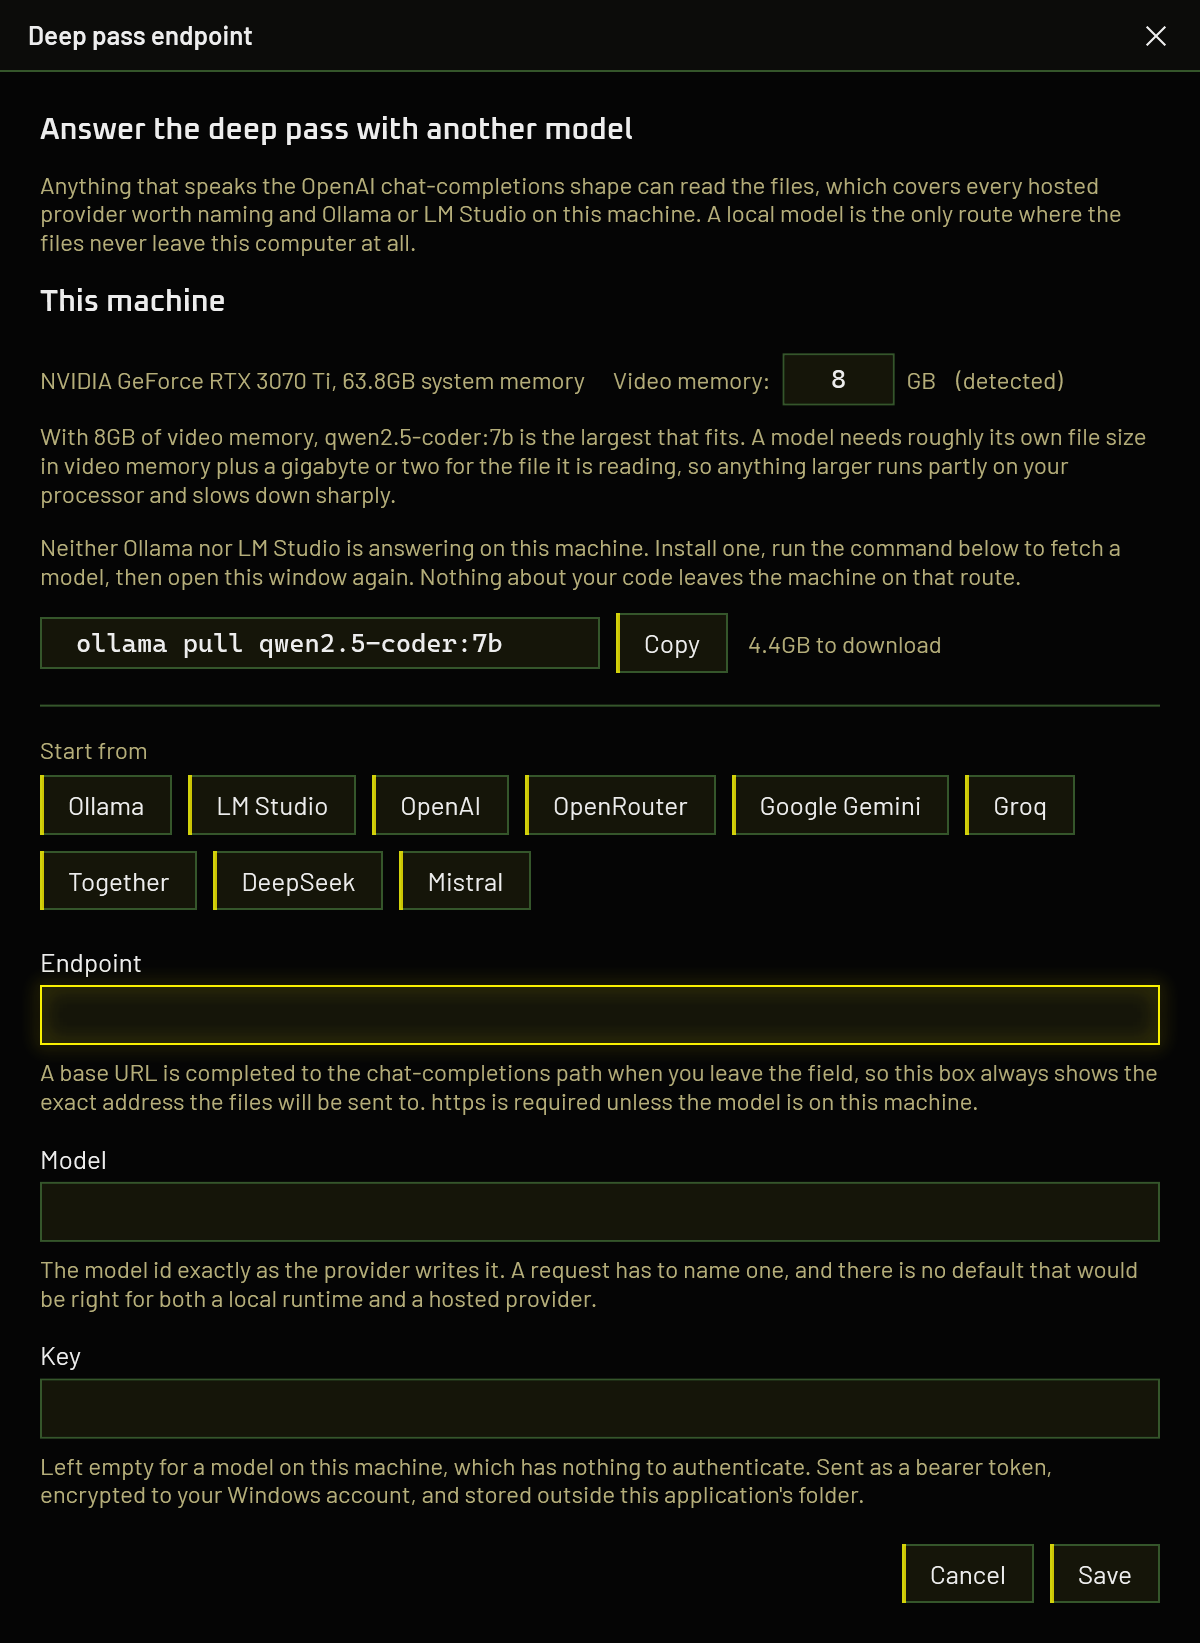
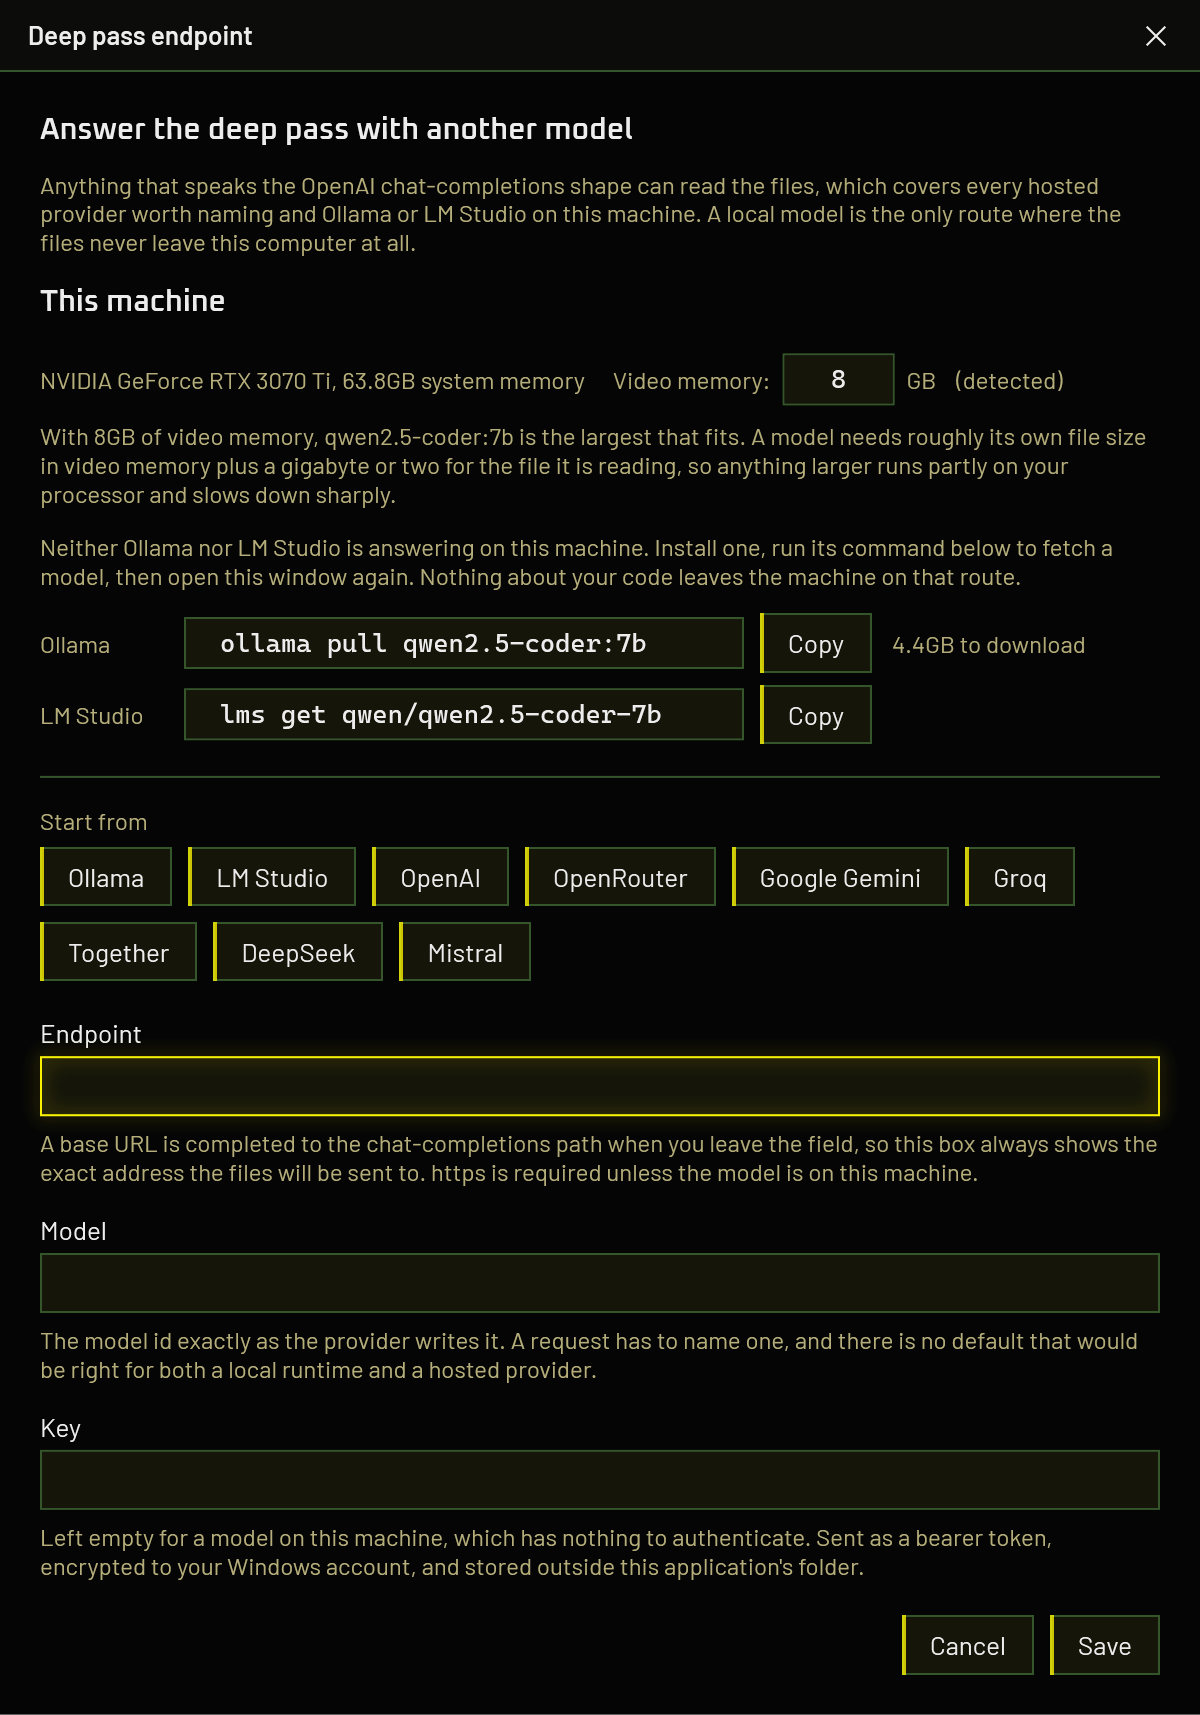
Give each local runtime its own model command
Ollama and LM Studio spell the same model differently and neither accepts the other's, so the single hardcoded `ollama pull` was wrong for anyone not running Ollama, including on the screen that had just named LM Studio as the one answering.

- LocalModelChoice carries both identifiers, and PullCommandFor picks by runtime
- the context caution is chosen the same way: LM Studio sets context per model as it loads and never reads OLLAMA_CONTEXT_LENGTH
- a command per detected runtime, labelled when there is more than one, and both when neither is running and the choice has not been made yet

All three LM Studio identifiers were checked against the live catalogue rather than inferred from the pattern.

diff --git a/docs/setup.html b/docs/setup.html
@@ -241,7 +241,7 @@
       </p>
       <figure>
         <div class="shot" style="--natural:600px">
-          <img src="assets/img/screen-endpoint.png" alt="The VibeCheck endpoint configuration window. It names the detected graphics card and system memory, offers an editable video memory figure, recommends the largest model that fits with the exact ollama pull command and its download size, then lists nine provider presets above the endpoint, model and key fields." width="1200" height="1643" loading="lazy">
+          <img src="assets/img/screen-endpoint.png" alt="The VibeCheck endpoint configuration window. It names the detected graphics card and system memory, offers an editable video memory figure, and recommends the largest model that fits, giving the fetch command for both Ollama and LM Studio with the download size. Below that are nine provider presets and the endpoint, model and key fields." width="1200" height="1715" loading="lazy">
         </div>
         <figcaption class="shot__caption">The endpoint window, sizing a model against the card it found.</figcaption>
       </figure>
@@ -336,6 +336,22 @@
           </tbody>
         </table>
       </div>
+      <div class="callout">
+        <span class="callout__title">The two runtimes spell the same model differently</span>
+        <p>
+          Ollama writes <code>qwen2.5-coder:7b</code> and LM Studio writes
+          <code>qwen/qwen2.5-coder-7b</code>, and neither accepts the other's spelling. VibeCheck
+          gives you the command for whichever runtime is answering, and both when neither is, so
+          you should not have to translate between them.
+        </p>
+        <p>
+          It matters in the <strong>Model</strong> field too: paste an Ollama tag into a
+          configuration pointing at LM Studio and the request fails on a model that does not
+          exist. Picking a detected model from the list avoids the question entirely, because
+          that fills in the endpoint and the identifier together.
+        </p>
+      </div>
+
       <div class="callout callout--warn">
         <span class="callout__title">Below 6.5 GB, VibeCheck recommends nothing</span>
         <p>
@@ -412,7 +428,11 @@
           <em>"no valid installation could be found"</em> even though the application is plainly
           installed.
         </li>
-        <li>Download a model through its interface. For an 8 GB card, a 7B coder model.</li>
+        <li>
+          Download a model. For an 8 GB card, a 7B coder model. Either through its interface, or
+          with the command VibeCheck gives you:
+          <pre><code>lms get qwen/qwen2.5-coder-7b</code></pre>
+        </li>
         <li>Open the <strong>Developer</strong> tab and start the local server. It listens on <code>localhost:1234</code>.</li>
         <li>Copy the model id exactly as LM Studio lists it. It is usually longer than an Ollama tag and is not interchangeable with one.</li>
         <li>In the endpoint window, press the <strong>LM Studio</strong> preset, paste the model id, leave the key empty, and save.</li>

diff --git a/VibeCheck.App/EndpointWindow.xaml b/VibeCheck.App/EndpointWindow.xaml
@@ -97,6 +97,8 @@
                  exact line to run rather than as a description of it. -->
             <StackPanel x:Name="PullRow" Orientation="Horizontal" Margin="0,4,0,0"
                         Visibility="Collapsed">
+                <TextBlock x:Name="PullLabel" Style="{StaticResource Caption}" Width="72"
+                           VerticalAlignment="Center" Visibility="Collapsed"/>
                 <TextBox x:Name="PullCommand" IsReadOnly="True" Height="26" Width="280"/>
                 <Button Content="Copy" Style="{StaticResource Btn}" Margin="8,0,0,0"
                         Click="OnCopyPull"/>
@@ -106,6 +108,19 @@
                      text would travel with it and stop being a runnable command. -->
                 <TextBlock x:Name="PullSize" Style="{StaticResource Caption}"
                            VerticalAlignment="Center" Margin="10,0,0,0"/>
+            </StackPanel>
+
+            <!-- A second command, shown only when neither runtime is running and the reader has
+                 therefore not yet chosen which to install. Two commands rather than a guess:
+                 whichever one they pick, the line above or below it is the one that works. Each
+                 keeps its own box so a copy stays a runnable command. -->
+            <StackPanel x:Name="PullRowAlt" Orientation="Horizontal" Margin="0,6,0,0"
+                        Visibility="Collapsed">
+                <TextBlock x:Name="PullLabelAlt" Style="{StaticResource Caption}" Width="72"
+                           VerticalAlignment="Center"/>
+                <TextBox x:Name="PullCommandAlt" IsReadOnly="True" Height="26" Width="280"/>
+                <Button Content="Copy" Style="{StaticResource Btn}" Margin="8,0,0,0"
+                        Click="OnCopyPullAlt"/>
             </StackPanel>
 
             <TextBlock x:Name="ContextCaution" Style="{StaticResource Caption}" TextWrapping="Wrap"

diff --git a/VibeCheck.Core/DeepPass/LocalModelGuide.cs b/VibeCheck.Core/DeepPass/LocalModelGuide.cs
@@ -17,20 +17,41 @@ public enum ModelFit
 }
 
 /// <summary>One model worth suggesting, and the machine it suits.</summary>
-/// <param name="Tag">The tag to pull and to name in a request.</param>
+/// <param name="Tag">Ollama's tag for it, which is also what a request to Ollama must name.</param>
+/// <param name="LmStudioTag">
+/// The same model as LM Studio's catalogue names it. <b>The two are not interchangeable</b>:
+/// Ollama writes <c>qwen2.5-coder:7b</c> and LM Studio writes <c>qwen/qwen2.5-coder-7b</c>, and
+/// each runtime rejects the other's spelling. All three were checked against the live catalogues
+/// rather than inferred from the pattern.
+/// </param>
 /// <param name="Label">How it is described in a sentence.</param>
 /// <param name="WantsVideoBytes">Video memory below which this is the wrong choice.</param>
 /// <param name="DownloadBytes">Roughly what pulling it costs in disk and bandwidth.</param>
 /// <param name="Note">What the reader gains or gives up at this size.</param>
 public sealed record LocalModelChoice(
     string Tag,
+    string LmStudioTag,
     string Label,
     long WantsVideoBytes,
     long DownloadBytes,
     string Note)
 {
-    /// <summary>The command that fetches it, which is the only step this application cannot do.</summary>
-    public string PullCommand => $"ollama pull {Tag}";
+    /// <summary>
+    /// The command that fetches it, which is the only step this application cannot do.
+    /// </summary>
+    /// <remarks>
+    /// Takes the runtime because there is no neutral answer. This used to be Ollama's command
+    /// unconditionally, including on the screen that had just told the reader LM Studio was the
+    /// one running here, which handed them a line that does nothing.
+    /// </remarks>
+    public string PullCommandFor(string? runtimeName) =>
+        LocalRuntimeProbe.IsLmStudio(runtimeName)
+            ? $"lms get {LmStudioTag}"
+            : $"ollama pull {Tag}";
+
+    /// <summary>What this model is called in the runtime that will be asked for it.</summary>
+    public string TagFor(string? runtimeName) =>
+        LocalRuntimeProbe.IsLmStudio(runtimeName) ? LmStudioTag : Tag;
 }
 
 /// <summary>
@@ -99,6 +120,7 @@ public static class LocalModelGuide
     [
         new(
             "qwen2.5-coder:7b",
+            "qwen/qwen2.5-coder-7b",
             "7B",
             WantsVideoBytes: 13 * GB / 2,
             DownloadBytes: 4_683_087_074,
@@ -107,6 +129,7 @@ public static class LocalModelGuide
 
         new(
             "qwen2.5-coder:14b",
+            "qwen/qwen2.5-coder-14b",
             "14B",
             WantsVideoBytes: 11 * GB,
             DownloadBytes: 8_988_123_810,
@@ -115,6 +138,7 @@ public static class LocalModelGuide
 
         new(
             "qwen2.5-coder:32b",
+            "qwen/qwen2.5-coder-32b",
             "32B",
             WantsVideoBytes: 22 * GB,
             DownloadBytes: 19_851_349_410,
@@ -224,6 +248,43 @@ public static class LocalModelGuide
     /// any reasonable time, so the right suggestion is a small one.
     /// </para>
     /// </remarks>
+    /// <summary>
+    /// The caution about context length, worded for whichever runtime is actually answering.
+    /// </summary>
+    /// <remarks>
+    /// The two configure it in completely different places, so one sentence cannot serve both.
+    /// This was Ollama's environment variable unconditionally, which told somebody running LM
+    /// Studio to set a variable it does not read. Both are named when neither is detected,
+    /// because then the reader has not yet chosen.
+    /// </remarks>
+    public static string ContextCautionFor(IEnumerable<string>? runtimeNames)
+    {
+        var names = runtimeNames?.ToArray() ?? [];
+
+        var ollama = names.Length == 0 || names.Any(n =>
+            string.Equals(n, LocalRuntimeProbe.OllamaName, StringComparison.OrdinalIgnoreCase));
+
+        var lmStudio = names.Length == 0 || names.Any(LocalRuntimeProbe.IsLmStudio);
+
+        const string Why =
+            "One thing to check: the deep pass sends whole files, several times larger than the "
+            + "context length these runtimes load a model with by default. If yours is left at "
+            + "that default, most of each file is dropped before the model reads it and the scan "
+            + "will look quiet rather than broken. ";
+
+        return (ollama, lmStudio) switch
+        {
+            (true, false) => Why + "Setting OLLAMA_CONTEXT_LENGTH to 32768 removes the doubt.",
+
+            (false, true) =>
+                Why + "LM Studio sets this per model as it loads, so raise the context length on "
+                + "the model's own settings before starting the server.",
+
+            _ => Why + "For Ollama, set OLLAMA_CONTEXT_LENGTH to 32768. For LM Studio, raise the "
+                + "context length on the model's own settings, which it applies as the model loads.",
+        };
+    }
+
     public static string Advise(long videoBytes, long systemBytes = 0)
     {
         if (videoBytes <= 0)

diff --git a/VibeCheck.Tests/LocalRuntimeTests.cs b/VibeCheck.Tests/LocalRuntimeTests.cs
@@ -335,8 +335,23 @@ public sealed class LocalRuntimeTests
 
         foreach (var choice in LocalModelGuide.Choices)
         {
-            Assert.StartsWith("ollama pull ", choice.PullCommand, StringComparison.Ordinal);
-            Assert.EndsWith(choice.Tag, choice.PullCommand, StringComparison.Ordinal);
+            // Each runtime gets its own command and its own spelling of the model. Neither
+            // accepts the other's, so a single command was wrong for one of the two readers.
+            var ollama = choice.PullCommandFor(LocalRuntimeProbe.OllamaName);
+            var lmStudio = choice.PullCommandFor(LocalRuntimeProbe.LmStudioName);
+
+            Assert.StartsWith("ollama pull ", ollama, StringComparison.Ordinal);
+            Assert.EndsWith(choice.Tag, ollama, StringComparison.Ordinal);
+
+            Assert.StartsWith("lms get ", lmStudio, StringComparison.Ordinal);
+            Assert.EndsWith(choice.LmStudioTag, lmStudio, StringComparison.Ordinal);
+
+            // The two spellings must actually differ, or one of them is a copied placeholder.
+            Assert.NotEqual(choice.Tag, choice.LmStudioTag);
+
+            // An unknown or absent runtime falls back to Ollama rather than to nothing, since
+            // that is the older and more widely installed of the two.
+            Assert.Equal(ollama, choice.PullCommandFor(null));
 
             // Smallest first, which Recommend depends on being meaningful and the dialog shows
             // in this order.
@@ -373,5 +388,42 @@ public sealed class LocalRuntimeTests
 
         // And the verdict has to match too: an 8GB card is the case this size exists for.
         Assert.Equal(ModelFit.Comfortable, LocalModelGuide.Judge(seven.DownloadBytes, 8 * GB));
+    }
+
+    /// <summary>
+    /// The context advice names the runtime that is answering, because the two set it in
+    /// completely different places.
+    /// </summary>
+    /// <remarks>
+    /// The defect this pins: the caution was Ollama's environment variable unconditionally, so a
+    /// reader running LM Studio was told to set a variable it never reads, on the same screen
+    /// that had correctly identified LM Studio as the one running.
+    /// </remarks>
+    [Fact]
+    public void The_context_caution_names_the_runtime_that_answered()
+    {
+        var ollama = LocalModelGuide.ContextCautionFor([LocalRuntimeProbe.OllamaName]);
+
+        Assert.Contains("OLLAMA_CONTEXT_LENGTH", ollama, StringComparison.Ordinal);
+        Assert.DoesNotContain("LM Studio", ollama, StringComparison.Ordinal);
+
+        var lmStudio = LocalModelGuide.ContextCautionFor([LocalRuntimeProbe.LmStudioName]);
+
+        Assert.Contains("LM Studio", lmStudio, StringComparison.Ordinal);
+        Assert.DoesNotContain("OLLAMA_CONTEXT_LENGTH", lmStudio, StringComparison.Ordinal);
+
+        // Nothing detected means the reader has not chosen yet, so both are named rather than
+        // one being guessed at.
+        foreach (var undecided in new[]
+                 {
+                     LocalModelGuide.ContextCautionFor(null),
+                     LocalModelGuide.ContextCautionFor([]),
+                     LocalModelGuide.ContextCautionFor(
+                         [LocalRuntimeProbe.OllamaName, LocalRuntimeProbe.LmStudioName]),
+                 })
+        {
+            Assert.Contains("OLLAMA_CONTEXT_LENGTH", undecided, StringComparison.Ordinal);
+            Assert.Contains("LM Studio", undecided, StringComparison.Ordinal);
+        }
     }
 }

diff --git a/VibeCheck.App/EndpointWindow.xaml.cs b/VibeCheck.App/EndpointWindow.xaml.cs
@@ -246,20 +246,44 @@ public partial class EndpointWindow : Window
 
         var recommended = LocalModelGuide.Recommend(_videoBytes) ?? LocalModelGuide.Choices[0];
 
-        PullCommand.Text = recommended.PullCommand;
-
         // What the recommendation costs, said where the recommendation is made. A reader deciding
         // whether to take it is deciding whether to spend the download, and the figure was
         // carried on the choice all along without ever reaching the screen.
         PullSize.Text = $"{LocalModelGuide.Gigabytes(recommended.DownloadBytes)} to download";
+
+        ContextCaution.Text = LocalModelGuide.ContextCautionFor(_runtimes.Select(r => r.Name));
         ContextCaution.Visibility = _runtimes.Count > 0 ? Visibility.Visible : Visibility.Collapsed;
+
+        // A command per runtime the reader could plausibly run it in. The two spell the same
+        // model differently and neither accepts the other's spelling, so one command was always
+        // wrong for somebody: for whoever was not running Ollama when one was detected, and for
+        // half the readers when none was. With nothing detected the choice has not been made yet,
+        // so both are offered rather than one being guessed at.
+        var offer = _runtimes.Count == 0
+            ? new[] { LocalRuntimeProbe.OllamaName, LocalRuntimeProbe.LmStudioName }
+            : [.. _runtimes.Select(r => r.Name)];
+
+        PullCommand.Text = recommended.PullCommandFor(offer[0]);
+        PullLabel.Text = offer[0];
+
+        // Labelled only when there is something to tell apart.
+        PullLabel.Visibility = offer.Length > 1 ? Visibility.Visible : Visibility.Collapsed;
+
+        if (offer.Length > 1)
+        {
+            PullLabelAlt.Text = offer[1];
+            PullCommandAlt.Text = recommended.PullCommandFor(offer[1]);
+        }
+
+        PullRowAlt.Visibility = offer.Length > 1 ? Visibility.Visible : Visibility.Collapsed;
 
         if (_runtimes.Count == 0)
         {
             DetectionStatus.Text =
-                "Neither Ollama nor LM Studio is answering on this machine. Install one, run the "
+                "Neither Ollama nor LM Studio is answering on this machine. Install one, run its "
                 + "command below to fetch a model, then open this window again. Nothing about "
                 + "your code leaves the machine on that route.";
+
             PullRow.Visibility = Visibility.Visible;
 
             return;
@@ -313,11 +337,15 @@ public partial class EndpointWindow : Window
         Hide(Problem);
     }
 
-    private void OnCopyPull(object sender, RoutedEventArgs e)
+    private void OnCopyPull(object sender, RoutedEventArgs e) => Copy(PullCommand.Text);
+
+    private void OnCopyPullAlt(object sender, RoutedEventArgs e) => Copy(PullCommandAlt.Text);
+
+    private static void Copy(string text)
     {
         try
         {
-            Clipboard.SetText(PullCommand.Text);
+            Clipboard.SetText(text);
         }
         catch (System.Runtime.InteropServices.COMException)
         {

diff --git a/VibeCheck.Core/DeepPass/LocalRuntimeProbe.cs b/VibeCheck.Core/DeepPass/LocalRuntimeProbe.cs
@@ -37,13 +37,28 @@ public sealed record LocalRuntime(string Name, Uri Endpoint, IReadOnlyList<Local
 /// </remarks>
 public static class LocalRuntimeProbe
 {
+    /// <summary>The two runtimes, named once so nothing has to spell them again.</summary>
+    /// <remarks>
+    /// Constants rather than literals because these names are matched on, not only displayed:
+    /// which runtime is answering decides which command a reader is given, and a comparison
+    /// against a hand-typed string is a defect waiting for a rename.
+    /// </remarks>
+    public const string OllamaName = "Ollama";
+
+    /// <inheritdoc cref="OllamaName"/>
+    public const string LmStudioName = "LM Studio";
+
+    /// <summary>Whether this runtime is LM Studio, which spells and fetches models differently.</summary>
+    public static bool IsLmStudio(string? runtimeName) =>
+        string.Equals(runtimeName, LmStudioName, StringComparison.OrdinalIgnoreCase);
+
     /// <summary>Where the two runtimes listen, and whether Ollama's extra endpoint is worth asking.</summary>
     private sealed record Candidate(string Name, int Port, bool Ollama);
 
     private static readonly Candidate[] Candidates =
     [
-        new("Ollama", 11434, Ollama: true),
-        new("LM Studio", 1234, Ollama: false),
+        new(OllamaName, 11434, Ollama: true),
+        new(LmStudioName, 1234, Ollama: false),
     ];
 
     /// <summary>
